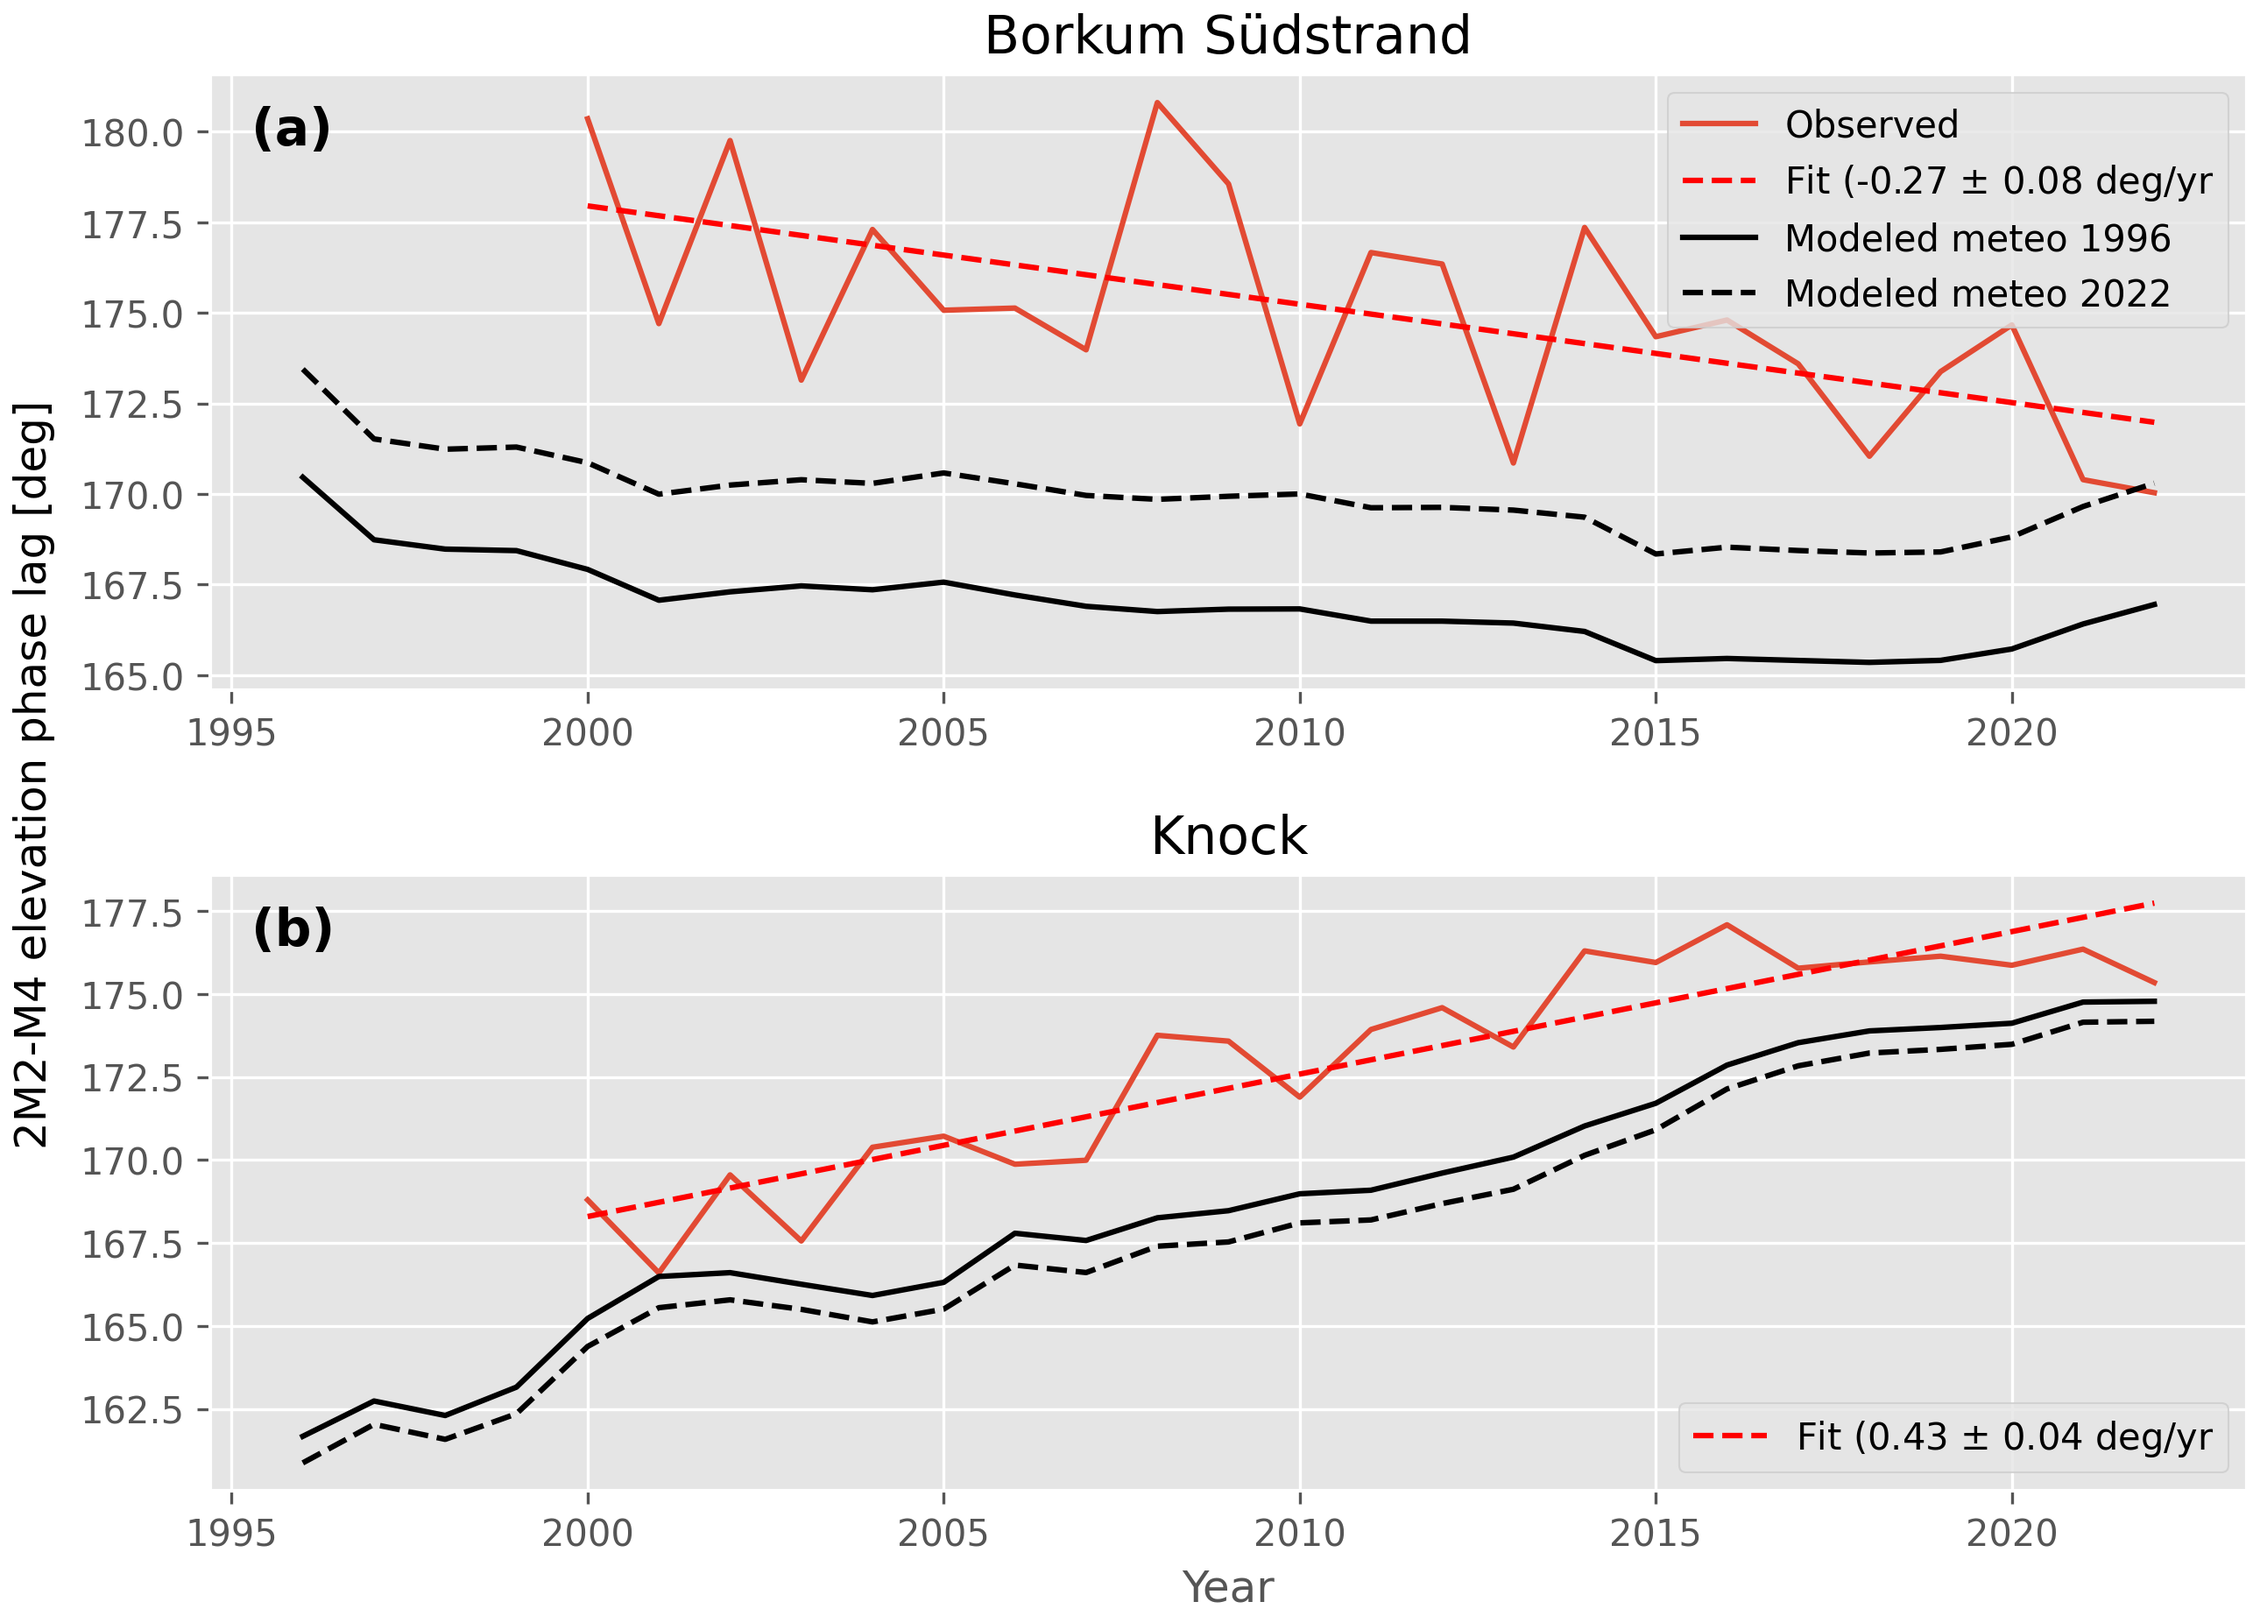
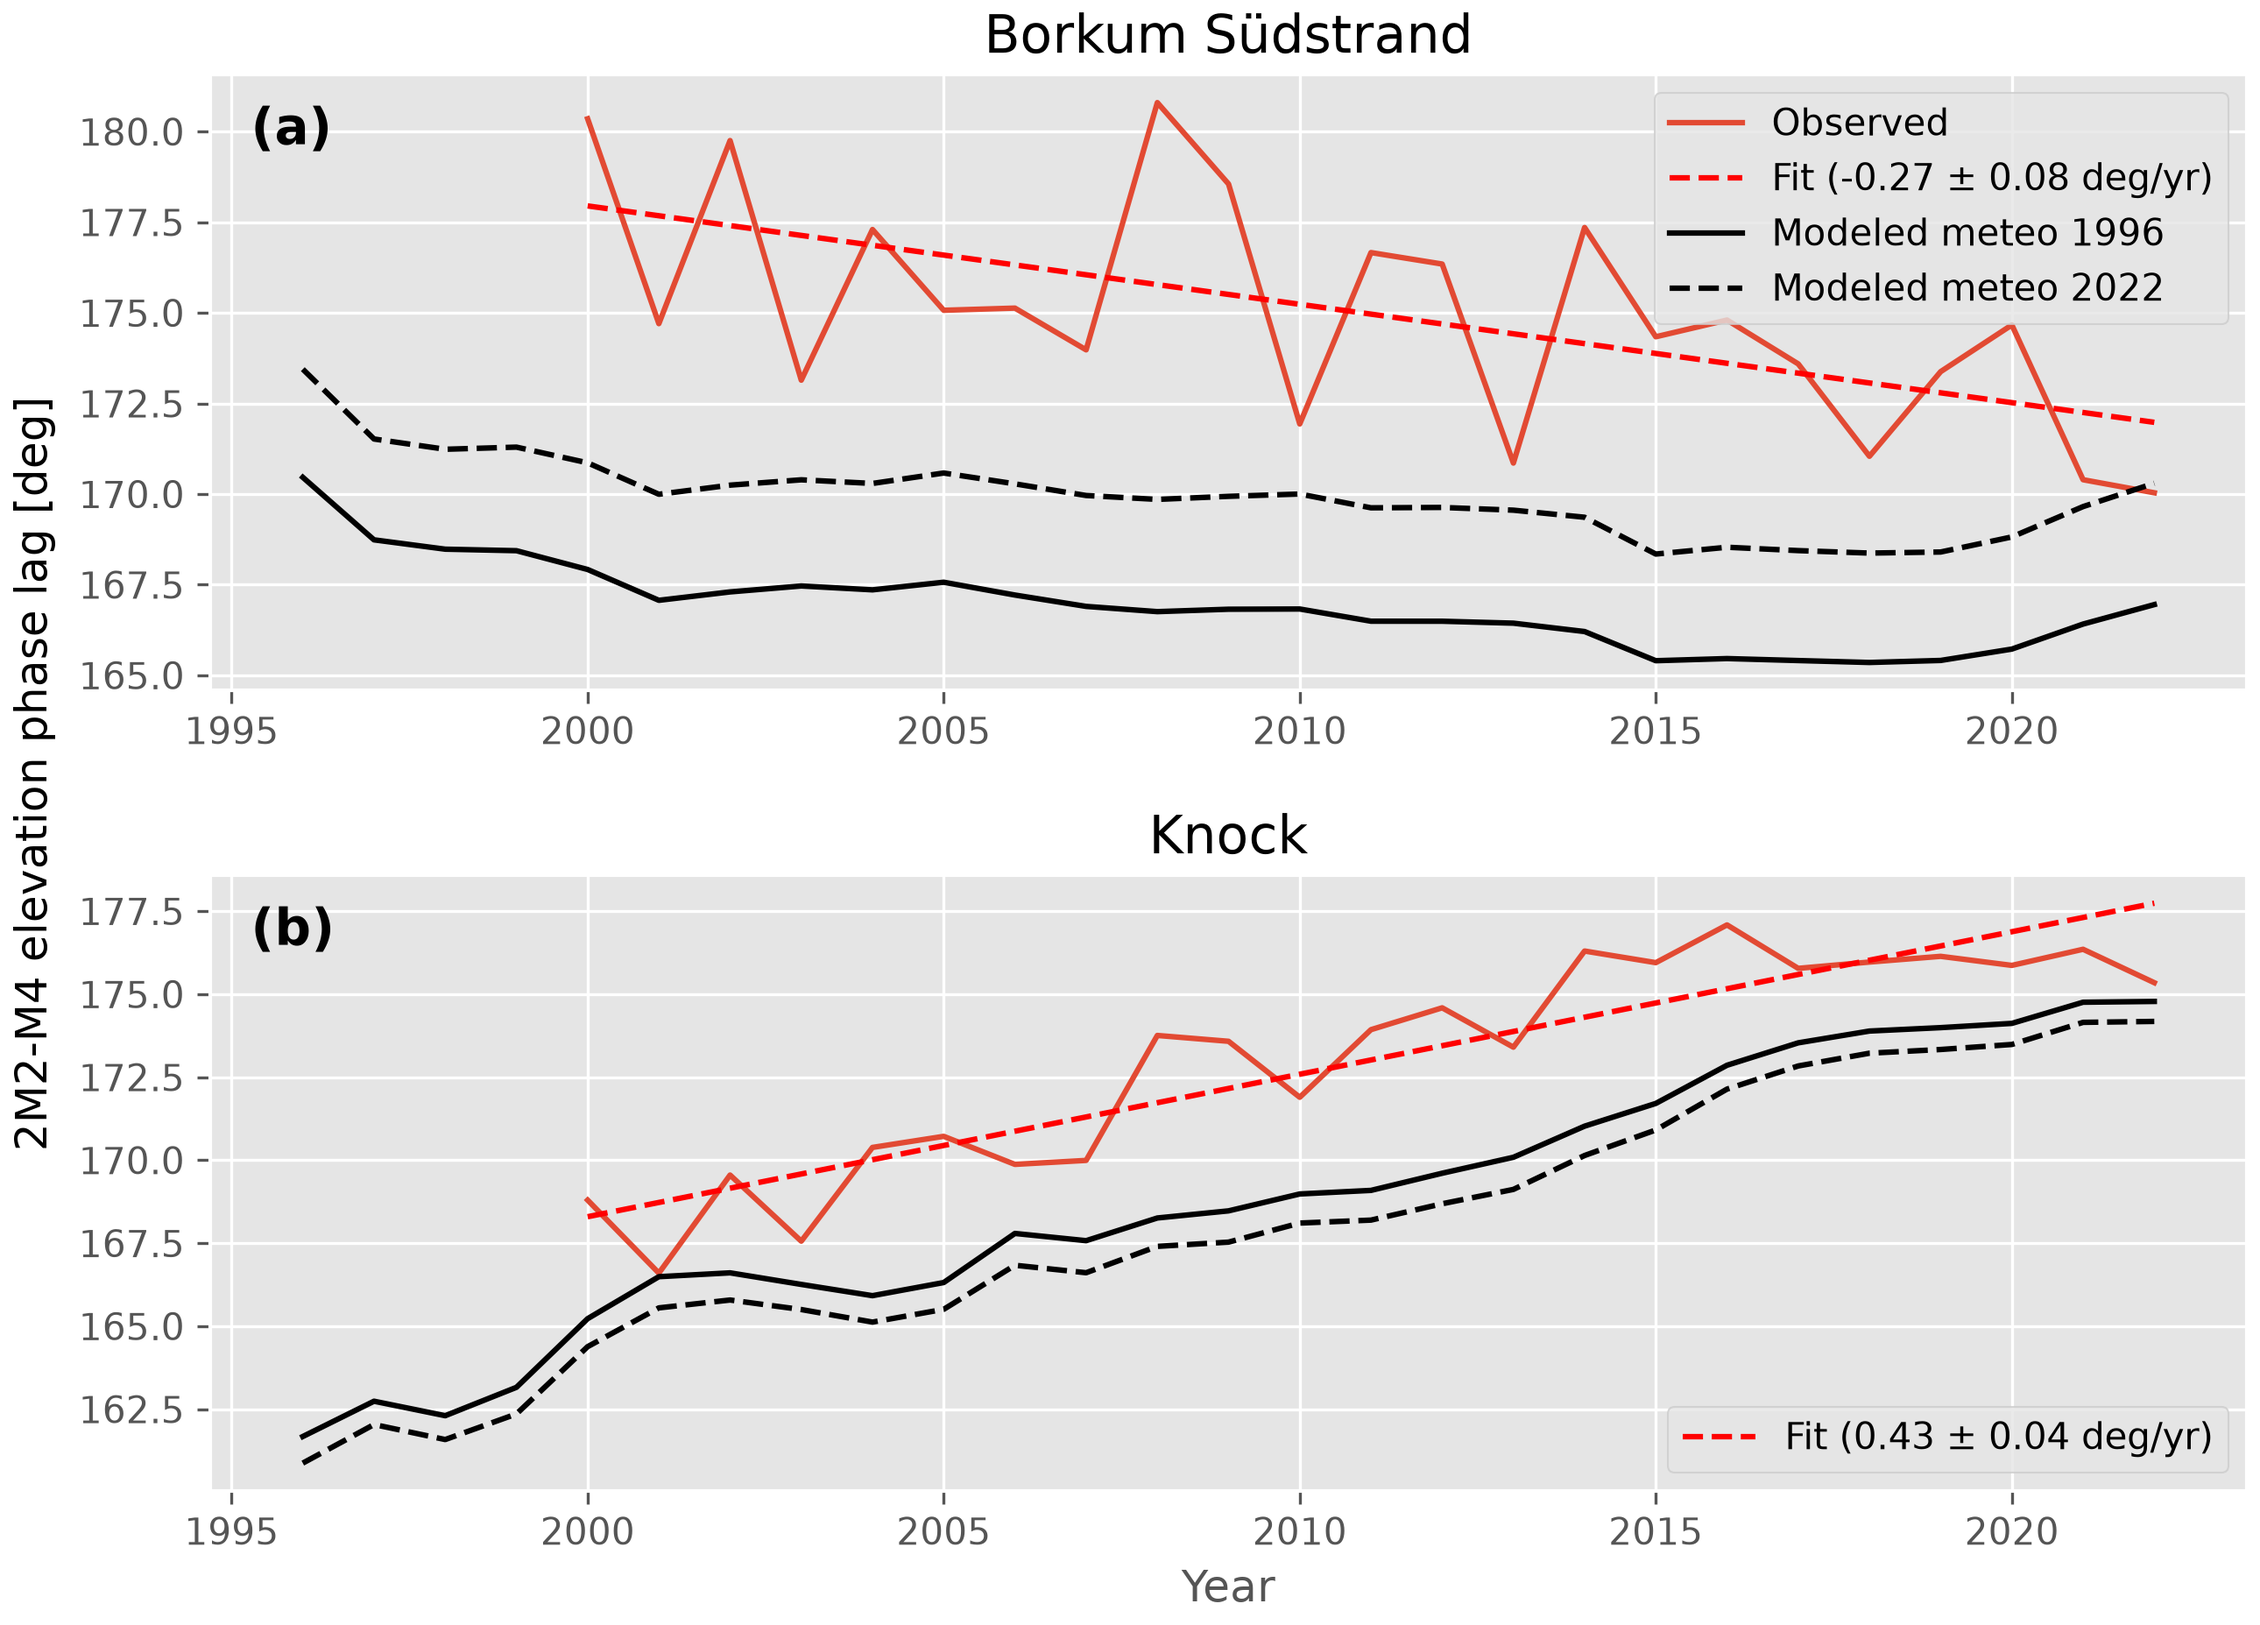
fix legend labels figure3

diff --git a/scripts/visualization/Figure3.py b/scripts/visualization/Figure3.py
@@ -1,6 +1,6 @@
 #!/usr/bin/env python3
 # -*- coding: utf-8 -*-
-
+#%%
 import matplotlib.pyplot as plt
 import numpy as np
 import hatyan
@@ -74,10 +74,10 @@ fig, axes = plt.subplots(nrows=2, figsize=(10, 7))
 ax = axes[0]
 ax.plot(years, observed_phase_lags_station1, label='Observed')
 ax.plot(years[np.isfinite(observed_phase_lags_station1)], A@xhat_tg1, linestyle='dashed', 
-        label='Fit ({:.2f} $\pm$ {:.2f} deg/yr'.format(xhat_tg1[1], trend_sigma_tg1), color='r')
+        label='Fit ({:.2f} $\pm$ {:.2f} deg/yr)'.format(xhat_tg1[1], trend_sigma_tg1), color='r')
 ax.plot(years, DCSM_phase_lags_station1_dynamic_meteo, label='Modeled', color='k')
 ax.plot(years[np.isfinite(observed_phase_lags_station1)], A@xhat_DCSM1, linestyle='dashed', 
-        label='Fit ({:.2f} $\pm$ {:.2f} deg/yr'.format(xhat_DCSM1[1], trend_sigma_DCSM1), color='k')
+        label='Fit ({:.2f} $\pm$ {:.2f} deg/yr)'.format(xhat_DCSM1[1], trend_sigma_DCSM1), color='k')
 ax.legend()
 ax.set_title(station1_display_name)
 ax.text(0.02, 0.95, "(a)", transform=ax.transAxes, fontsize=14, fontweight='bold',
@@ -87,10 +87,10 @@ ax.text(0.02, 0.95, "(a)", transform=ax.transAxes, fontsize=14, fontweight='bold
 ax = axes[1]
 ax.plot(years, observed_phase_lags_station2)
 ax.plot(years[np.isfinite(observed_phase_lags_station2)], A@xhat_tg2, linestyle='dashed', 
-        label='Fit ({:.2f} $\pm$ {:.2f} deg/yr'.format(xhat_tg2[1], trend_sigma_tg2), color='r')
+        label='Fit ({:.2f} $\pm$ {:.2f} deg/yr)'.format(xhat_tg2[1], trend_sigma_tg2), color='r')
 ax.plot(years, DCSM_phase_lags_station2_dynamic_meteo, color='k')
 ax.plot(years[np.isfinite(observed_phase_lags_station2)], A@xhat_DCSM2, linestyle='dashed', 
-        label='Fit ({:.2f} $\pm$ {:.2f} deg/yr'.format(xhat_DCSM2[1], trend_sigma_DCSM2), color='k')
+        label='Fit ({:.2f} $\pm$ {:.2f} deg/yr)'.format(xhat_DCSM2[1], trend_sigma_DCSM2), color='k')
 ax.set_xlabel('Year')
 ax.set_title(station2_display_name)
 ax.text(0.02, 0.95, "(b)", transform=ax.transAxes, fontsize=14, fontweight='bold',
@@ -112,7 +112,7 @@ fig, axes = plt.subplots(nrows=2, figsize=(10, 7))
 ax = axes[0]
 ax.plot(years, observed_phase_lags_station1, label='Observed')
 ax.plot(years[np.isfinite(observed_phase_lags_station1)], A@xhat_tg1, linestyle='dashed', 
-        label='Fit ({:.2f} $\pm$ {:.2f} deg/yr'.format(xhat_tg1[1], trend_sigma_tg1), color='r')
+        label='Fit ({:.2f} $\pm$ {:.2f} deg/yr)'.format(xhat_tg1[1], trend_sigma_tg1), color='r')
 ax.plot(years, DCSM_phase_lags_station1_static_meteo_1996, label='Modeled meteo 1996', color='k')
 ax.plot(years, DCSM_phase_lags_station1_static_meteo_2022, linestyle='dashed', label='Modeled meteo 2022', color='k')
 # ax.plot(years[np.isfinite(observed_phase_lags_station1)], A@xhat_DCSM1, linestyle='dashed', 
@@ -126,7 +126,7 @@ ax.text(0.02, 0.95, "(a)", transform=ax.transAxes, fontsize=14, fontweight='bold
 ax = axes[1]
 ax.plot(years, observed_phase_lags_station2)
 ax.plot(years[np.isfinite(observed_phase_lags_station2)], A@xhat_tg2, linestyle='dashed', 
-        label='Fit ({:.2f} $\pm$ {:.2f} deg/yr'.format(xhat_tg2[1], trend_sigma_tg2), color='r')
+        label='Fit ({:.2f} $\pm$ {:.2f} deg/yr)'.format(xhat_tg2[1], trend_sigma_tg2), color='r')
 ax.plot(years, DCSM_phase_lags_station2_static_meteo_1996, color='k')
 ax.plot(years, DCSM_phase_lags_station2_static_meteo_2022, linestyle='dashed', color='k')
 # ax.plot(years[np.isfinite(observed_phase_lags_station2)], A@xhat_DCSM2, linestyle='dashed', 
@@ -139,3 +139,4 @@ ax.legend()
 plt.subplots_adjust(hspace=0.3)
 fig.supylabel("{} elevation phase lag [deg]".format(phase_lag_string), x=0.05)
 fig.savefig('../../figures/Figure3_static_meteo.png', dpi=300, bbox_inches='tight', pad_inches=0.05)
+# %%

diff --git a/scripts/analysis/check_taylor_expansion.py b/scripts/analysis/check_taylor_expansion.py
@@ -5,6 +5,7 @@ Created on Mon Sep 21 10:40:48 2026
 
 @author: kbhaakman
 """
+#%%
 import numpy as np
 import xarray as xr
 import matplotlib.pyplot as plt
@@ -321,3 +322,4 @@ def reconstruct_tides(out, constituents, frequencies, n_times=1000):
 
 if __name__ == '__main__':
     out = main()
+# %%
